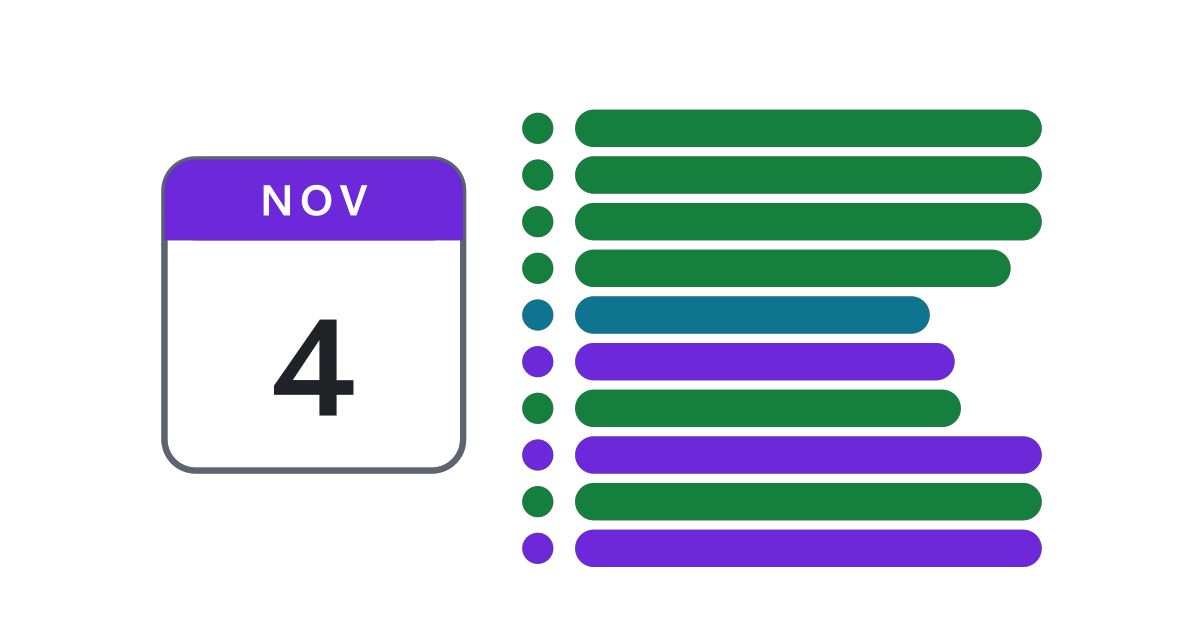
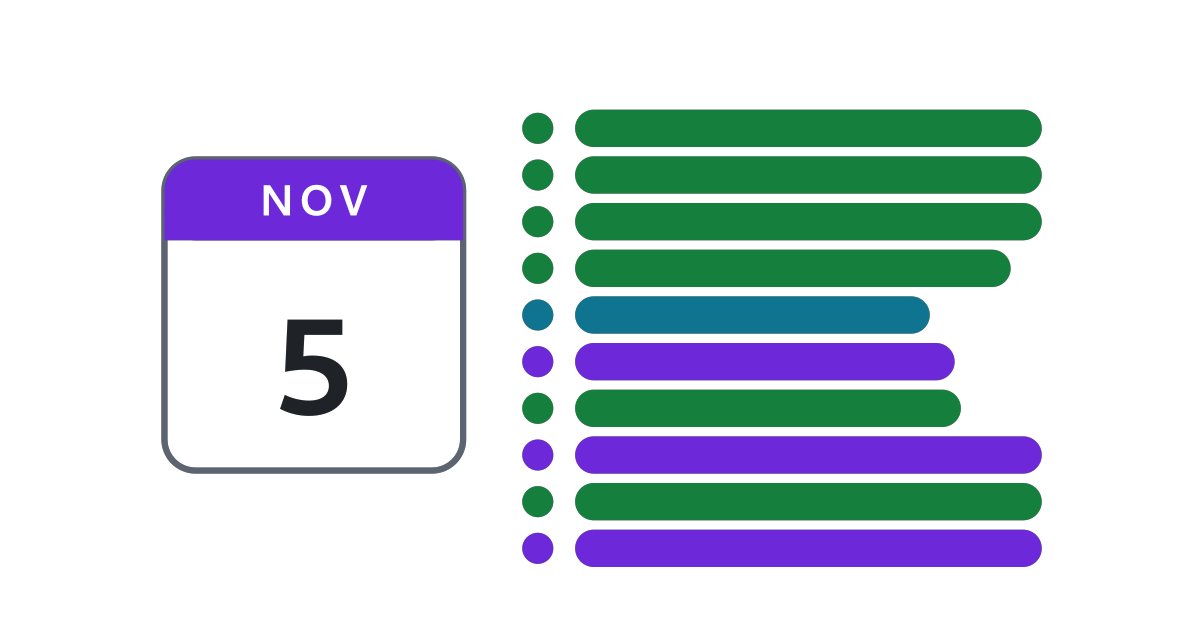
^report(37): its link preview, redrawn for November 5

Changed region(s): [[0.2158, 0.4825, 0.3083, 0.6635]]

diff --git a/hazel/reports/037/index.html b/hazel/reports/037/index.html
@@ -8,6 +8,17 @@
 <!-- nav: begin --><meta name="theme-support" content="data-theme"><script src="https://matthewhammer.org/nav/nav.js"></script><!-- nav: end -->
 <meta name="viewport" content="width=device-width, initial-scale=1">
 <title>Agenda for November 5</title>
+<!-- og: begin (tools/og_previews.py in matthewhammer.github.io: the link preview's text and picture) -->
+<meta property="og:type" content="article">
+<meta property="og:title" content="Agenda for November 5">
+<meta property="og:description" content="The topics for Thursday&#x27;s meeting (2026-11-05, 10:00 Mountain; moved from Wednesday), in four parts: performance and the cost of undo; Hazlets, Hazel embedded in a JS program&#x27;s event handlers (Messed Up Dress Up&#x27;s scripts, the library, a prototype npm package); DSL tile editors as a kind of…">
+<meta property="og:url" content="https://matthewhammer.org/hazel/reports/037/">
+<meta property="og:image" content="https://matthewhammer.org/hazel/reports/037/og.png">
+<meta property="og:image:width" content="1200">
+<meta property="og:image:height" content="630">
+<meta name="twitter:card" content="summary_large_image">
+<meta name="twitter:image" content="https://matthewhammer.org/hazel/reports/037/og.png">
+<!-- og: end -->
 <style>
   :root {
     --bg: #fbfaf7; --paper: #ffffff; --ink: #1f2328; --muted: #5b6470; --line: #e3e0d8;
